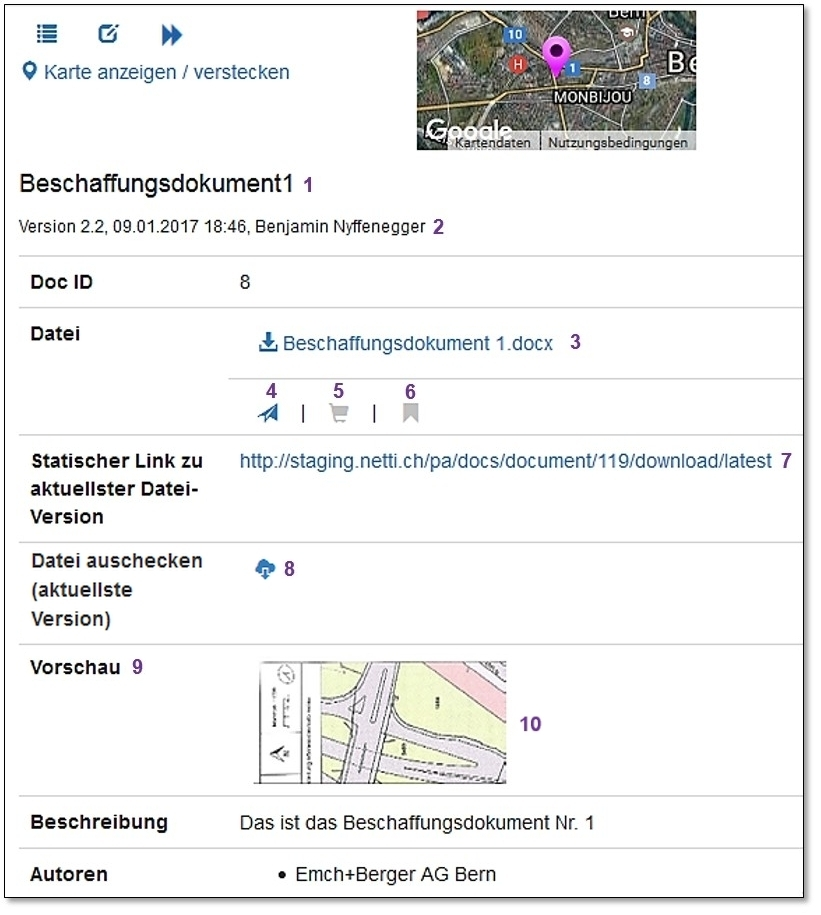
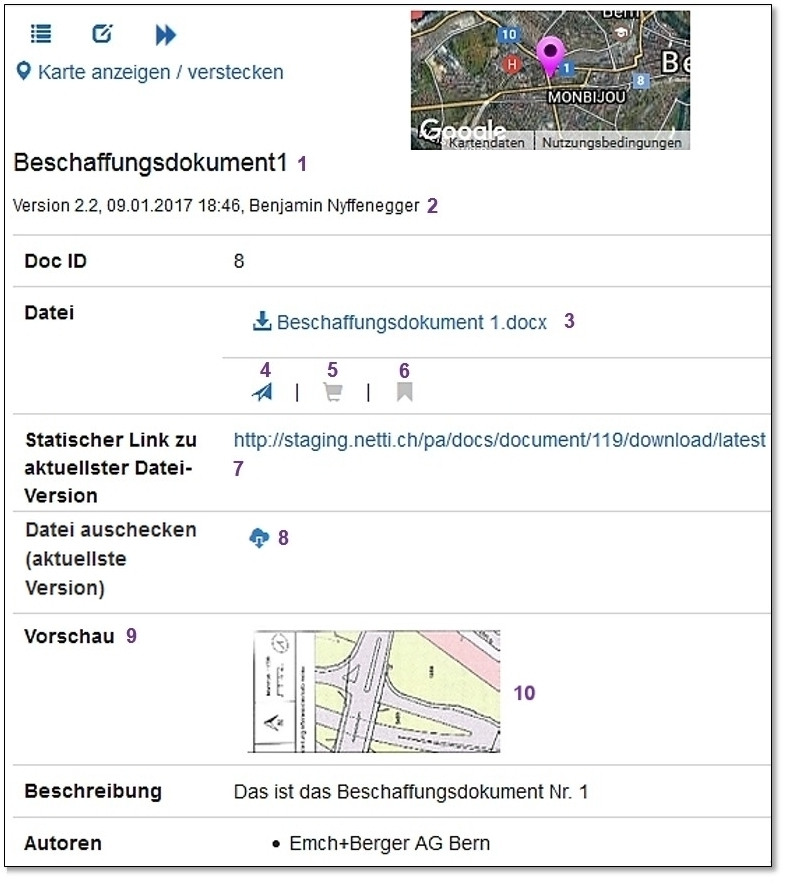
[german]
Dokumentenablage, kleine Änderungen

diff --git a/german/chapters/11_Dokumentenablage/11_Dokumentenablage.tex b/german/chapters/11_Dokumentenablage/11_Dokumentenablage.tex
@@ -675,18 +675,17 @@ Sie können mittels dem Linksymbol \includegraphics[height=12pt]{/Icons/Link.jpg
 \begin{wrapfigure}[18]{l}{9.5cm}
 \vspace{-15pt}
 \includegraphics[height=105mm]{../chapters/11_Dokumentenablage/pictures/11-2-5_Dokumentenansicht.jpg}
-% \caption{Status ändern}
+\vspace{-5pt}
+\caption{Der Ansichtsmodus}
 \end{wrapfigure}
 
-Haben Sie ein Dokument mittels Lupensymbol \includegraphics[height=12pt]{/Icons/Lupe.jpg} geöffnet, sehen Sie nebst dem Titel \col{(1)} sämtliche Informationen (z.B. Autor(en), Tags, die beim Hochladen oder bei späterer Bearbeitung dem Dokument hinzugefügt wurden (siehe Kapitel \ref{bkm:Ref442778397})). Bei fehlenden Angaben bleiben die entsprechenden Felder in der Ansicht leer oder werden nicht angezeigt. Unter dem Titel ist ersichtlich, um welche Dokumentenversion es sich handelt, ebenso welcher Zeitstempel und Bearbeiter hinterlegt sind \col{(2)}. \newline
+Haben Sie ein Dokument mittels Lupensymbol \includegraphics[height=12pt]{/Icons/Lupe.jpg} geöffnet, sehen Sie nebst dem Titel \col{(1)} sämtliche Informationen (z.B. Autor(en), Tags, die beim Hochladen oder bei späterer Bearbeitung dem Dokument hinzugefügt wurden (siehe Kapitel \ref{bkm:Ref442778397}). Unter dem Titel ist ersichtlich, um welche Dokumentenversion es sich handelt, ebenso welcher Zeitstempel und welche Bearbeiter hinterlegt sind \col{(2)}. \textbf{Hinweis:} Bei fehlenden Angaben (wurden z.B. keine Autoren hinterlegt) bleiben die entsprechenden Felder im Ansichtsmodus leer oder werden nicht angezeigt. \newline
 
 Unter 'Datei' können Sie mittels \includegraphics[height=12pt]{/Icons/download.jpg} oder Textlink \col{(3)} das aktuelle Dokument herunterladen. Es wird das gewohnte Downloadfenster des Browsers geöffnet, bei welchem Sie auswählen können, ob die Datei geöffnet oder gespeichert werden soll. Mit Klick auf \includegraphics[height=12pt]{/Icons/Versandsymbol.jpg} \col{(4)} können Sie dieses Dokument an beliebige Email-Empfänger versenden. Mehr dazu unter Kapitel \ref{bkm:Ref201701127}. Sie können das Dokument mit Klick auf \includegraphics[height=12pt]{/Icons/shoppingcart_g.jpg} \col{(5)} in den Dokumentenkorb legen. Sobald sich das Dokument im Dokumentenkorb befindet wechselt das Symbol die Farbe: \includegraphics[height=12pt]{/Icons/shoppingcart_r.jpg}. Mit erneutem Klick entfernen Sie das Dokument wieder aus dem Dokumentenkorb. Der Dokumentenkorb wird in Kapitel \ref{bkm:Ref201705445} beschrieben. \newline
 
 Klicken Sie auf das \includegraphics[height=12pt]{/Icons/DokuFlag_grau.jpg} \col{(6)}, um das Dokument in Ihrer persönlichen Übersicht anzeigen zu lassen. Ist das Dokument markiert, wird Ihnen dies mit einem roten Symbol angezeigt: \includegraphics[height=12pt]{/Icons/DokuFlag_rot.jpg}. Mit Klick auf das rote Flag-Symbol wird das Dokument von Ihrer Übersicht wieder entfernt. \newline
 
-Unter 'Statischer Link zu aktuellster Datei-Version' \col{(7)} wird auf die aktuellste Version des Dokuments referenziert. Sie können diesen Link z.B. per Mail versenden und dadurch gewährleisten, dass der Empfänger in jedem Fall auf die aktuellste Version des Dokuments verwiesen wird.
-
-Um ein Dokument zu bearbeiten, wird es ausgecheckt \col{(8)}. Mehr zu diesem Thema finden Sie in Kapitel \ref{bkm:Ref442780171} (Dokumente online bearbeiten / Aus- und Einchecken der Dokumente).
+Unter 'Statischer Link zu aktuellster Datei-Version' \col{(7)} wird auf die aktuellste Version des Dokuments referenziert. Sie können diesen Link z.B. per Mail versenden und dadurch gewährleisten, dass der Empfänger in jedem Fall auf die aktuellste Version des Dokuments verwiesen wird. Um ein Dokument zu bearbeiten, wird es ausgecheckt \col{(8)}. Mehr zu diesem Thema finden Sie in Kapitel \ref{bkm:Ref442780171} (Dokumente online bearbeiten / Aus- und Einchecken der Dokumente).
 
 \vspace{\baselineskip}
 
@@ -706,7 +705,7 @@ Durch Klicken auf eine Seite der Vorschau \col{(10)}, wird das Dokument im Vorsc
 
 \textbf{Weitere Optionen in der Dokumentenansicht:}
 
-\begin{wrapfigure}[6]{l}{6.5cm} 
+\begin{wrapfigure}[5]{l}{6.5cm} 
   \vspace{-25pt} 
   \begin{center}
     \includegraphics[width=1\linewidth]{../chapters/11_Dokumentenablage/pictures/dok_weitereOptionen.jpg}
@@ -725,10 +724,10 @@ Wurde ein Dokument einem strukturierten Dossier hinzugefügt, können Sie mit Kl
 \begin{figure}[H]
 \center{\includegraphics[width=.45\linewidth]{../chapters/11_Dokumentenablage/pictures/dok_LinkPlanungsdossier.jpg}}
 %\caption{Weitere Optionen}
-% \label{fig:speciation}
+\vspace{-15pt}
 \end{figure}
 
-Detailiertere Informationen zu strukturierten Dossiers finden Sie in Kapitel \ref{bkm:Ref2018073102}.
+Detailliertere Informationen zu strukturierten Dossiers finden Sie in Kapitel \ref{bkm:Ref2018073102}.
 
 \vspace{\baselineskip}
 

diff --git a/german/CUBEPA_Handbuch.tex b/german/CUBEPA_Handbuch.tex
@@ -75,14 +75,14 @@
 \HRule \\[1.5cm]
 
 \textsf{\Large Benutzerhandbuch}\\[0.5cm] % Major heading such as course name
-\textsf{\large Version 2.12 / 09.05.2019}\\[0.5cm] % Minor heading such as course title
+\textsf{\large Version 2.12 / 14.05.2019}\\[0.5cm] % Minor heading such as course title
 
 \pagebreak
 \vspace*{15cm}
 
 \flushleft\textbf{ Impressum}
 \rule{\textwidth}{1pt}
-\begin{flushright}
+\begin{flushright}	 
 \begin{flushleft}
 
 \end{flushleft}
@@ -90,7 +90,7 @@
 \begin{tabular}{lp{12cm}}
 Auftragsnummer & BE.N.\\
 Auftraggeber & .\\
-Datum & 09.05.2019\\
+Datum & 14.05.2019\\
 Version & 2.12\\
 Autoren & Dieter Schopfer, Benjamin Nyffenegger, Rayane Zahreddine, Adrian Johner, Markus Schafroth, Simon Heimberg\\
 Freigabe & Markus Schafroth\\
